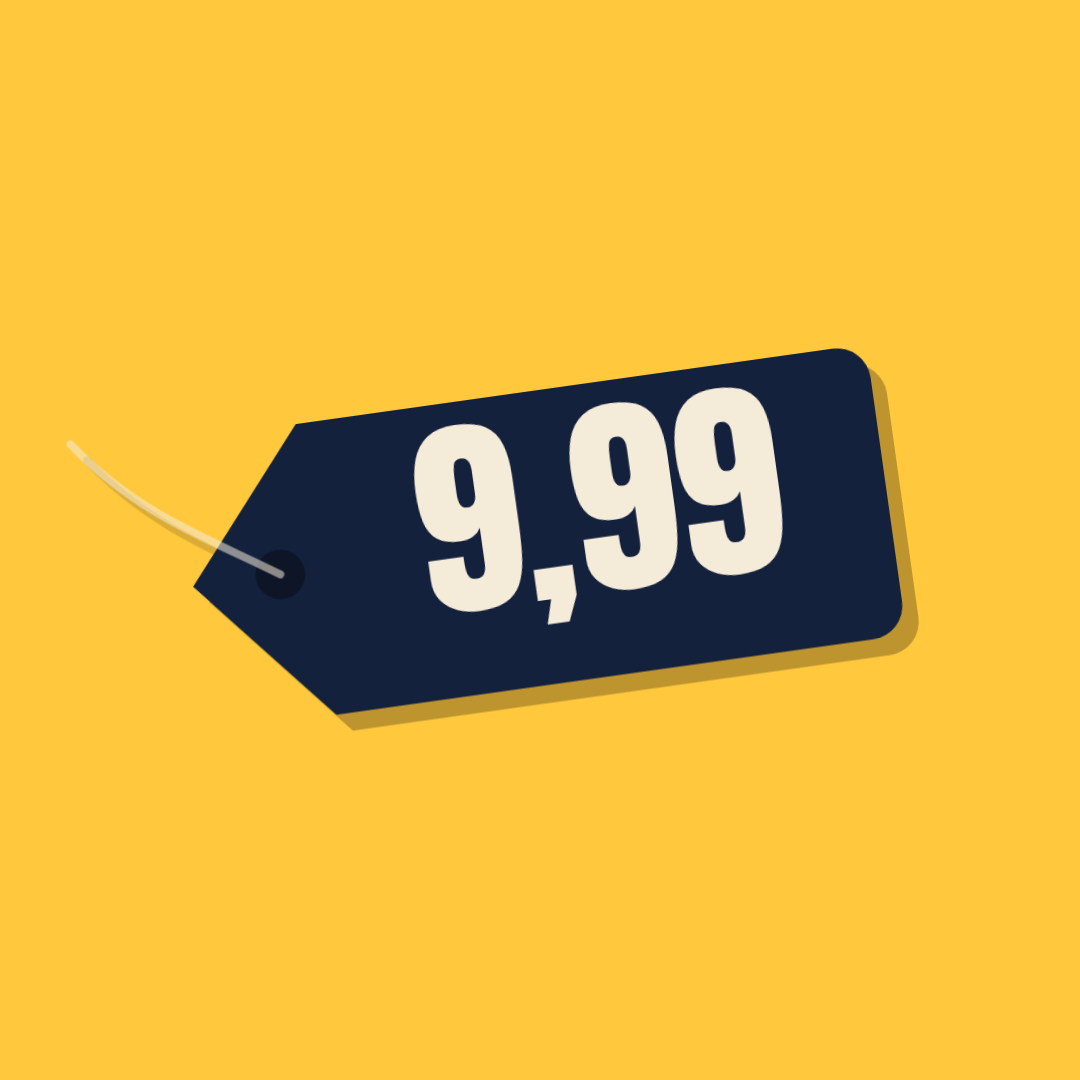
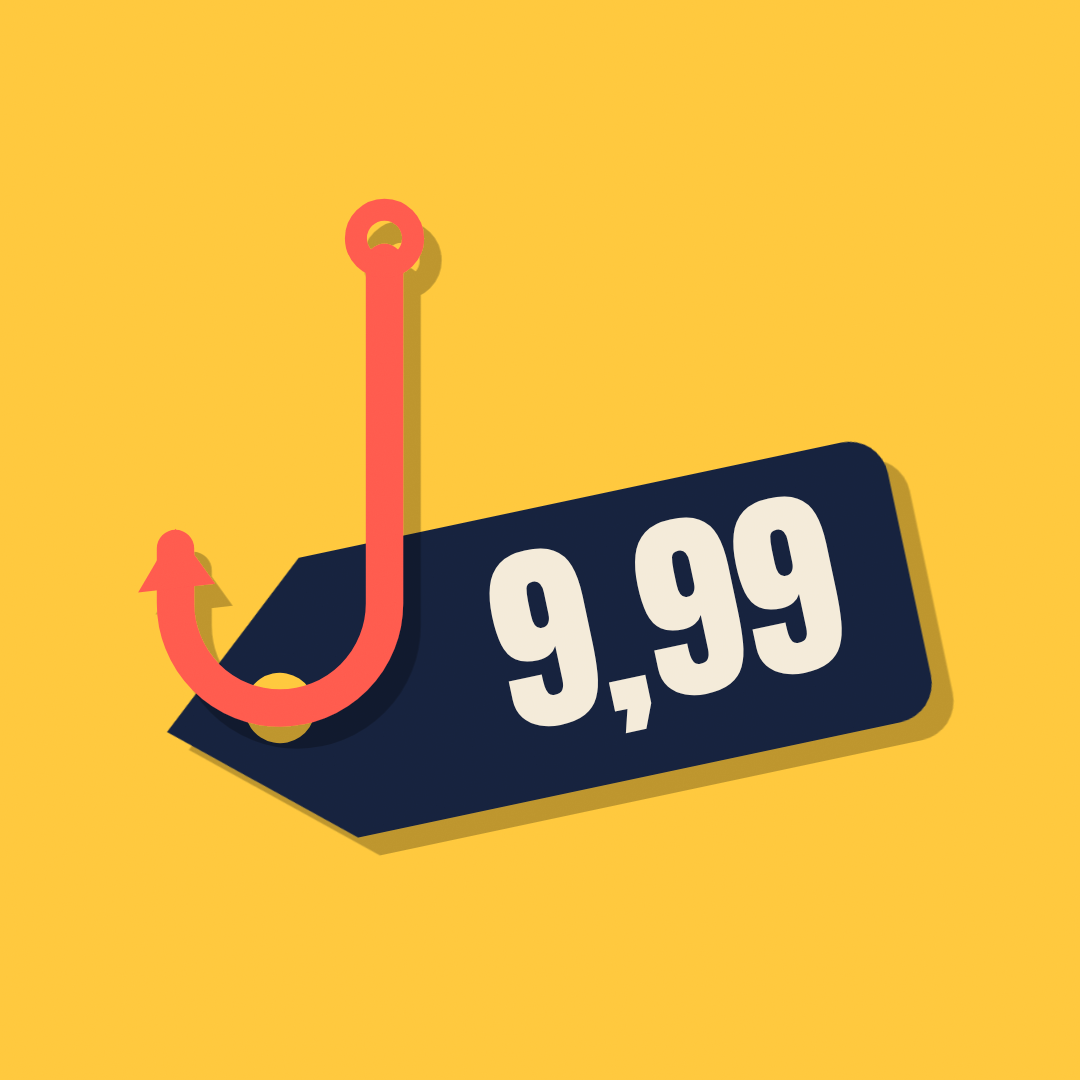
Photo de profil avec hameçon, nom complet et bio du compte
Claude-Session: https://claude.ai/code/session_015B49SHX7nMhbWneNMWbFKk

Changed region(s): [[0.1222, 0.1833, 0.8861, 0.7944], [0.0611, 0.3972, 0.1222, 0.4583]]

diff --git a/studio/avatar.js b/studio/avatar.js
@@ -1,17 +1,45 @@
-// Photo de profil du compte, dans la charte des vidéos. node avatar.js <sortie.png>
+// Photos de profil du compte, dans la charte des vidéos.
+// node avatar.js <dossier de sortie>  → profil-A.png, profil-B.png, profil-C.png (1080×1080) + apercu.png
 const { chromium } = require('playwright');
 const path = require('path');
+const out = path.resolve(process.argv[2] || '.');
+const P = { green: '#0E3B2E', navy: '#14213D', cream: '#F4EBD9', yellow: '#FFC83D', coral: '#FF5A4E', yellow2: '#E0A419', coral2: '#D9382D' };
+const shadow = 'filter="url(#sh)"';
+const defs = `<defs>
+  <filter id="sh" x="-20%" y="-20%" width="140%" height="140%"><feDropShadow dx="16" dy="20" stdDeviation="0" flood-color="#000" flood-opacity=".26"/></filter>
+  <filter id="grain"><feTurbulence type="fractalNoise" baseFrequency=".9" numOctaves="2" seed="4"/><feColorMatrix values="0 0 0 0 .5  0 0 0 0 .5  0 0 0 0 .5  0 0 0 .55 0"/></filter>
+</defs>`;
+const grain = `<rect width="1080" height="1080" filter="url(#grain)" opacity=".16" style="mix-blend-mode:overlay"/>`;
+// étiquette accrochée à un hameçon : le trou de l'étiquette est au fond du crochet, en (HX, HY)
+const HX = 400, HY = 560;
+const tag = (fill, ink, hole) => {
+  const x = HX - 105, y = HY - 130, w = 690, h = 260, fs = 185;
+  return `<g transform="rotate(-12 ${HX} ${HY})">
+    <g ${shadow}><path d="M${x + 150},${y} H${x + w - 36} a36,36 0 0 1 36,36 V${y + h - 36} a36,36 0 0 1 -36,36 H${x + 150} L${x},${y + h / 2} Z" fill="${fill}"/></g>
+    <circle cx="${HX}" cy="${HY}" r="32" fill="${hole}"/>
+    <text x="${x + 150 + (w - 150) / 2 + 45}" y="${y + h / 2 + fs * .36}" text-anchor="middle" font-family="Anton" font-size="${fs}" fill="${ink}">9,99</text></g>`;
+};
+const hook = col => {
+  const cx = HX + 95, cy = HY - 35;          // fond du crochet = trou de l'étiquette
+  return `<g ${shadow}><path d="M${cx},${cy - 370} V${cy - 60} a95,95 0 1 1 -190,0 v-50" fill="none" stroke="${col}" stroke-width="34" stroke-linecap="round"/>
+    <path d="M${cx - 190},${cy - 128} l-34,58 l70,-8 z" fill="${col}"/>
+    <circle cx="${cx}" cy="${cy - 392}" r="26" fill="none" stroke="${col}" stroke-width="20"/></g>`;
+};
+const look = (bg, tagFill, ink, hookCol) => `<rect width="1080" height="1080" fill="${bg}"/><g transform="translate(-160 92) scale(1.1)">${tag(tagFill, ink, bg)}${hook(hookCol)}</g>`;
+const A = look(P.yellow, P.navy, P.cream, P.coral);
+const B = look(P.navy, P.yellow, P.navy, P.coral);
+const C = look(P.green, P.cream, P.navy, P.yellow);
+
 (async () => {
   const b = await chromium.launch();
   const p = await b.newPage({ viewport: { width: 1080, height: 1080 } });
   await p.goto('file://' + path.join(__dirname, 'player.html'));
-  await p.evaluate(async () => {
-    document.body.innerHTML = `<div style="position:absolute;inset:0;background:#FFC83D;overflow:hidden">
-      <div style="position:absolute;left:540px;top:540px;transform:translate(-50%,-50%) rotate(-8deg);filter:drop-shadow(14px 18px 0 rgba(0,0,0,.26))">
-        ${O.tag('9,99', { w: 700, fill: '#14213D', ink: '#F4EBD9', fs: 190 })}</div></div>`;
-    document.body.style.cssText = 'width:1080px;height:1080px;margin:0';
-    await document.fonts.load('200px Anton'); await document.fonts.ready;
-  });
-  await p.screenshot({ path: process.argv[2], clip: { x: 0, y: 0, width: 1080, height: 1080 } });
+  await p.evaluate(() => document.fonts.load('200px Anton'));
+  for (const [k, inner] of Object.entries({ A, B, C })) {
+    await p.evaluate(svg => { document.body.innerHTML = svg; document.body.style.cssText = 'margin:0;width:1080px;height:1080px'; },
+      `<svg width="1080" height="1080" viewBox="0 0 1080 1080" xmlns="http://www.w3.org/2000/svg">${defs}${inner}${grain}</svg>`);
+    await p.evaluate(() => document.fonts.ready);
+    await p.screenshot({ path: path.join(out, `profil-${k}.png`), clip: { x: 0, y: 0, width: 1080, height: 1080 } });
+  }
   await b.close();
 })();

diff --git a/guide-comptes.md b/guide-comptes.md
@@ -19,9 +19,14 @@ Fichiers prêts : `comptes/photo-de-profil.png` (photo de profil) et `comptes/de
    - `piegeaprix`
    Solutions de repli : `prixpieges`, `pourquoitupaies`, `cachedansleprix`.
 3. Garde sous la main :
-   - **Nom affiché** : `Les pièges des prix`
-   - **Photo** : `comptes/photo-de-profil.png`
-   - **Bio** : `Pourquoi tu paies plus sans le voir. Un piège de prix expliqué par vidéo.`
+   - **Nom affiché** : `Les pièges des prix | Psycho de la conso` (sur TikTok, si c'est trop long : `Les pièges des prix`)
+   - **Photo** : `comptes/photo-de-profil.png` (étiquette « 9,99 » accrochée à un hameçon ; variantes dans `comptes/profil-B.png` et `profil-C.png`)
+   - **Bio** :
+     ```
+     Pourquoi tu paies plus sans le voir 🧠
+     Un piège de prix décrypté par vidéo, études à l'appui 📊
+     Abonne-toi avant tes prochaines courses 🛒
+     ```
 
 ## 3. Créer le compte TikTok (15 minutes)
 
